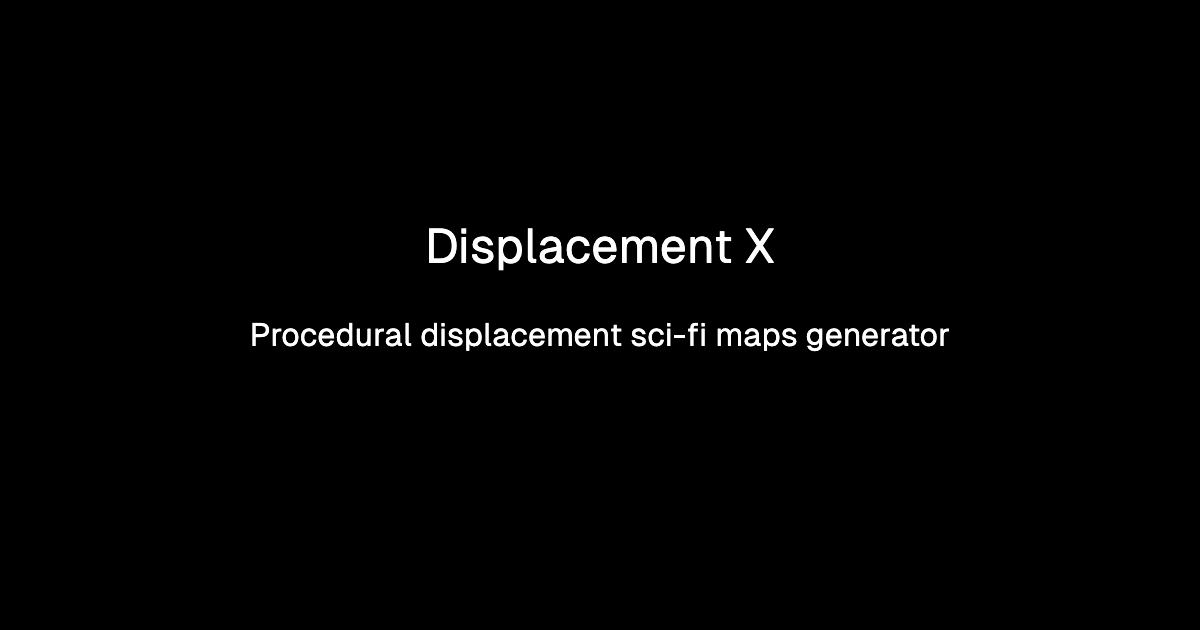
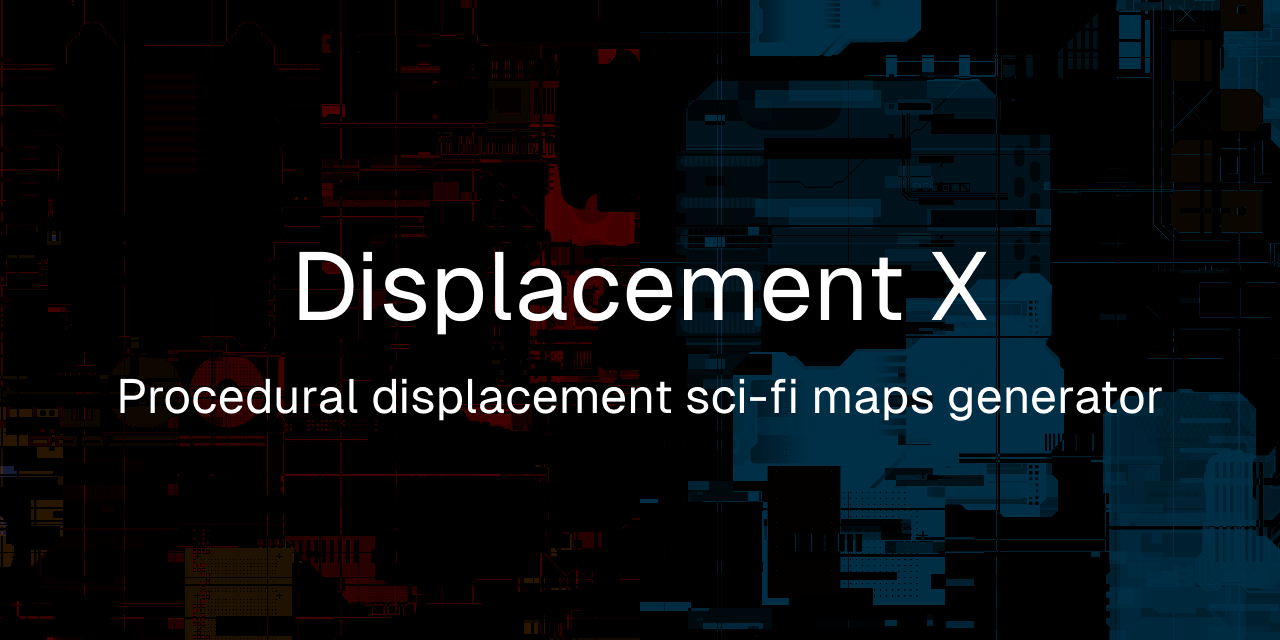
Stable (v0.1.0) (#27)

diff --git a/src/components/pages/Generator/Generator.tsx b/src/components/pages/Generator/Generator.tsx
@@ -1,5 +1,4 @@
 import Link from 'next/link';
-import {GitHubLogoIcon} from '@radix-ui/react-icons';
 import {softwareVersion} from '@/constants/softwareVersion';
 import {CanvasSection} from './CanvasSection';
 import {SettingsSection} from './SettingsSection';
@@ -7,22 +6,9 @@ import {SettingsSection} from './SettingsSection';
 export function Generator() {
   return (
     <div className='mx-auto max-w-screen-2xl'>
-      <header className='flex flex-row items-start justify-between p-4'>
-        <div>
-          <h1 className='select-none text-2xl sm:text-3xl'>Displacement X</h1>
-          <span className='text-xs text-white/50'>{`v${softwareVersion}`}</span>
-        </div>
-        <Link
-          className='outline-none focus-visible:ring-2 focus-visible:ring-sky'
-          href='https://github.com/satelllte/displacementx'
-          target='_blank'
-        >
-          <GitHubLogoIcon
-            aria-label='GitHub repository'
-            width={20}
-            height={20}
-          />
-        </Link>
+      <header className='p-4'>
+        <h1 className='select-none text-2xl sm:text-3xl'>Displacement X</h1>
+        <span className='text-xs text-white/50'>{`v${softwareVersion}`}</span>
       </header>
       <main className='flex flex-col gap-8 px-4 pb-4 sm:flex-row sm:gap-6'>
         <div className='relative flex-1'>
@@ -32,6 +18,46 @@ export function Generator() {
           <SettingsSection />
         </div>
       </main>
+      <footer className='p-4 pt-12 text-sm'>
+        <FooterRow>
+          <span>
+            Created by{' '}
+            <FooterLink href='https://github.com/satelllte'>
+              @satelllte
+            </FooterLink>
+          </span>
+        </FooterRow>
+        <FooterRow>
+          <FooterLink href='https://github.com/satelllte/displacementx'>
+            GitHub
+          </FooterLink>
+          <FooterLink href='https://github.com/satelllte/displacementx/releases'>
+            Version History
+          </FooterLink>
+        </FooterRow>
+      </footer>
     </div>
+  );
+}
+
+function FooterRow({children}: {readonly children: React.ReactNode}) {
+  return <div className='flex items-center gap-2'>{children}</div>;
+}
+
+function FooterLink({
+  href,
+  children,
+}: {
+  readonly href: string;
+  readonly children: string;
+}) {
+  return (
+    <Link
+      className='underline focus:outline-none focus-visible:ring-2 focus-visible:ring-sky'
+      target='_blank'
+      href={href}
+    >
+      {children}
+    </Link>
   );
 }

diff --git a/src/components/pages/Generator/CanvasSection/Canvas/Canvas.tsx b/src/components/pages/Generator/CanvasSection/Canvas/Canvas.tsx
@@ -21,7 +21,9 @@ export const Canvas = forwardRef<HTMLCanvasElement, CanvasProps>(
         width={width}
         height={height}
       >
-        HTML canvas is not supported in this browser
+        <span className='absolute inset-0 flex items-center justify-center p-2 text-center text-sm'>
+          HTML canvas is not supported in this browser
+        </span>
       </canvas>
       <div
         className={clsx(

diff --git a/src/app/layout.tsx b/src/app/layout.tsx
@@ -8,8 +8,8 @@ const images = [
   {
     url: '/og.png',
     alt: description,
-    width: 1200,
-    height: 630,
+    width: 1280,
+    height: 640,
   },
 ];
 

diff --git a/README.md b/README.md
@@ -1,15 +1,35 @@
-# ▓ Displacement X
+# Displacement X
 
 Procedural displacement sci-fi maps generator. Web-based alternative to [JSplacement](https://www.google.com/search?q=JSplacement).
 
 Live at ▶ **[displacementx.vercel.app](https://displacementx.vercel.app/)**
 
-<img src="./docs/screenshot.png" alt="Displacement X application screenshot"/>
+<img src="./public/og.png" alt="Displacement X - social image preview"/>
 
-## Status
+## FAQ
 
-The application is still in development, but it's already usable to some extent.
+### Does it aim to replace the original `JSplacement` software?
 
-## Development
+No. The application doesn't aim to replace `JSplacement`, but rather to provide a web-based alternative for those who don't want to find its downloads online and install it. Features-wise, it implements some from `JSplacement`, but also has some that didn't exist in it before (e.g., "Composition modes" or "Custom gradient generator").
 
-Developers guide is available in [docs/DEVELOPMENT.md](docs/DEVELOPMENT.md).
+### What happened to the original `JSplacement` software?
+
+Unfortunately, the original `JSplacement` software is no longer maintained and it's gone. The author has abandoned the project and removed all the downloads from the internet.
+
+Some links:
+
+- Reddit post: [What happened to JSplacement](https://www.reddit.com/r/blender/comments/zfwmjr/does_anyone_know_what_happened_to_jsplacement/).
+- Web port of `JSplacement`: [JSPlacementWeb](https://github.com/satelllte/JSPlacementWeb) _(missing some features)_.
+- Consider supporting `Windmill` - the author of `JSPlacement`: [Website](https://windmillart.net/), [PayPal/WMillArt](https://www.paypal.com/paypalme/WMillArt), [Ko-fi/windmill](https://ko-fi.com/windmill).
+
+### Any future plans for `Displacement X`?
+
+No particular plans. I've opened the source code of this project to everyone, so let's see how it goes.
+
+### I want to share my work done with the help of `Displacement X`. Where can I do that?
+
+Feel free to open an issue in this repository to share your work. I'd love to see what you've created.
+
+## Contributing
+
+Check out [CONTRIBUTING.md](./CONTRIBUTING.md) guide.

diff --git a/.github/ISSUE_TEMPLATE/bug_report.md b/.github/ISSUE_TEMPLATE/bug_report.md
@@ -1,0 +1,43 @@
+---
+name: Bug report
+about: Create a report to help us improve
+title: '[Bug]'
+labels: 'bug'
+assignees: ''
+---
+
+**Describe the bug**
+
+<!-- A clear and concise description of what the bug is. -->
+
+...
+
+**To Reproduce**
+
+<!--
+  Steps to reproduce the behavior:
+  1. Go to '...'
+  2. Click on '....'
+  3. Scroll down to '....'
+  4. See error
+-->
+
+...
+
+**Expected behavior**
+
+<!-- A clear and concise description of what you expected to happen. -->
+
+...
+
+**Screenshots**
+
+<!-- If applicable, add screenshots to help explain your problem. -->
+
+...
+
+**Additional context**
+
+<!-- Add any other context about the problem here. -->
+
+...

diff --git a/CONTRIBUTING.md b/CONTRIBUTING.md
@@ -1,0 +1,10 @@
+# Contributing guide
+
+Hi there! Thank you for your interest in contributing to this project.
+
+You can help in many ways, whether it's reporting bugs, suggesting enhancements, or contributing code. Also, I'd appreciate if you're building something with Displacement X, so you can share your work.
+
+Links:
+
+- [Log an issue](https://github.com/satelllte/displacementx/issues/new/choose)
+- [Development guide](./DEVELOPMENT.md)

diff --git a/.github/ISSUE_TEMPLATE/feature_request.md b/.github/ISSUE_TEMPLATE/feature_request.md
@@ -1,0 +1,13 @@
+---
+name: Feature request
+about: Suggest an idea for this project
+title: '[Feature]'
+labels: 'enhancement'
+assignees: ''
+---
+
+**Feature request**
+
+<!-- A clear and concise description of your feature idea -->
+
+...

diff --git a/.github/ISSUE_TEMPLATE/other.md b/.github/ISSUE_TEMPLATE/other.md
@@ -1,0 +1,11 @@
+---
+name: Other
+about: Feel free to ask about anything
+title: ''
+labels: ''
+assignees: ''
+---
+
+**About**
+
+...
